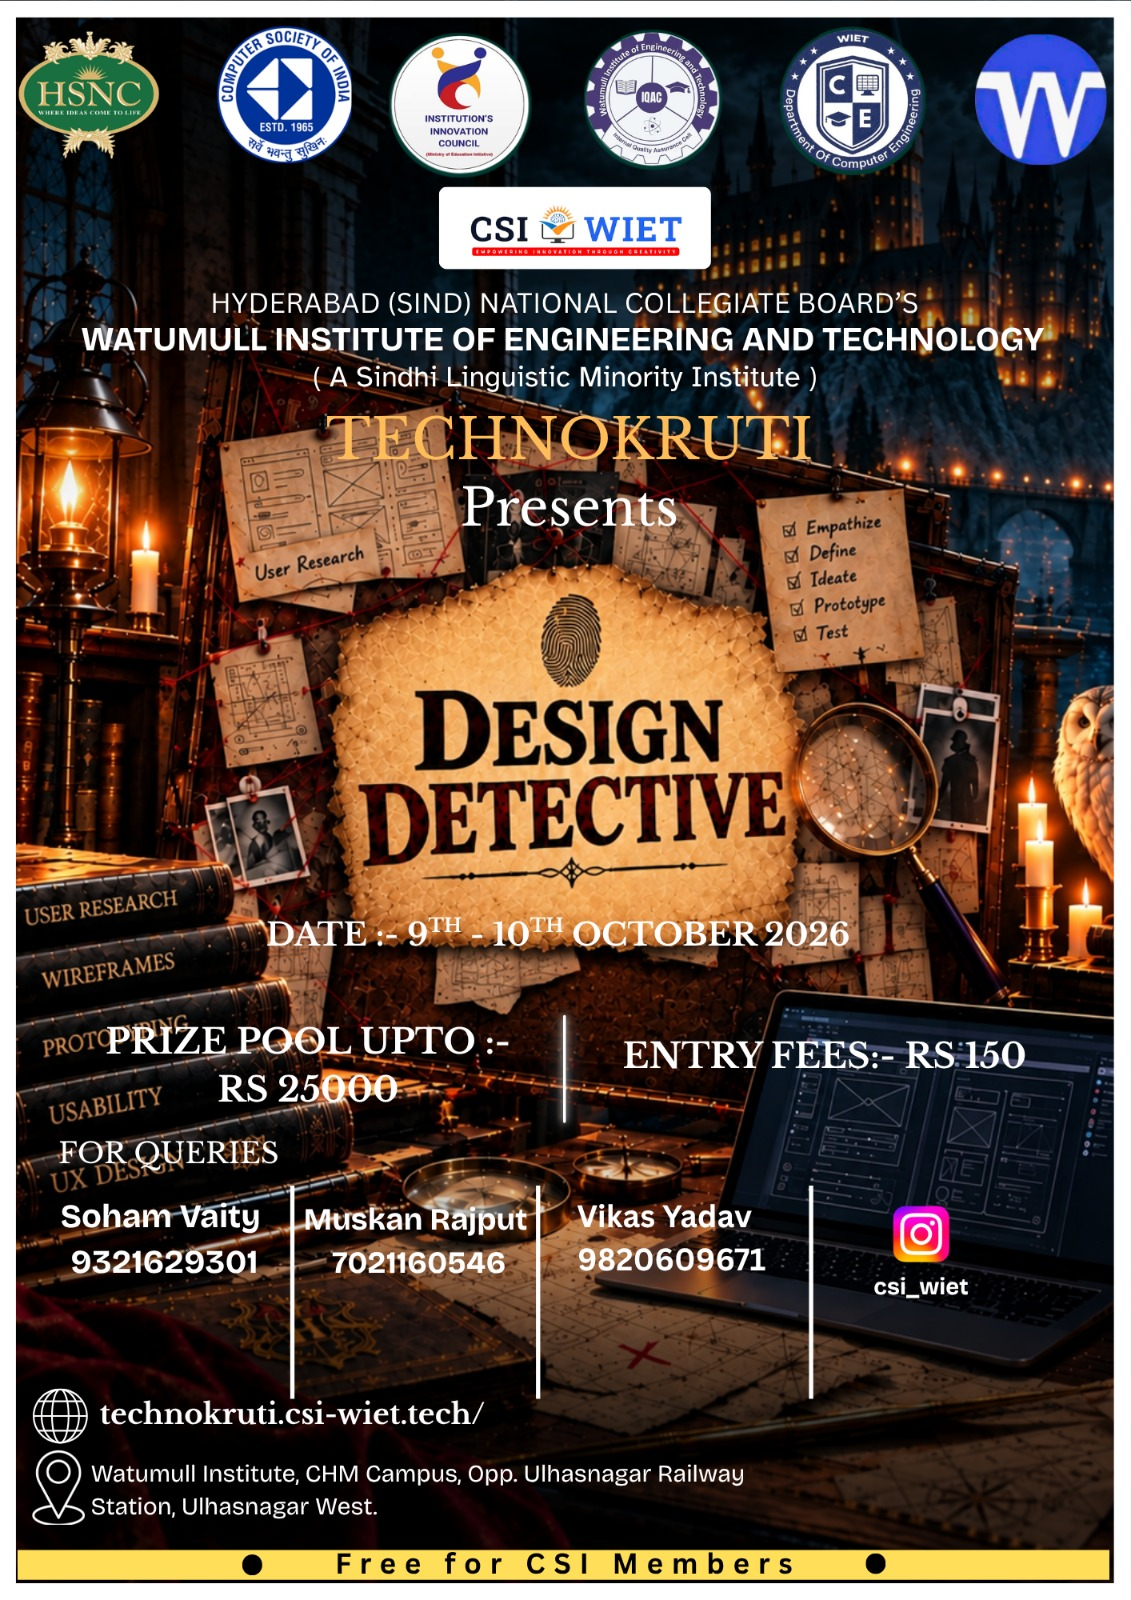
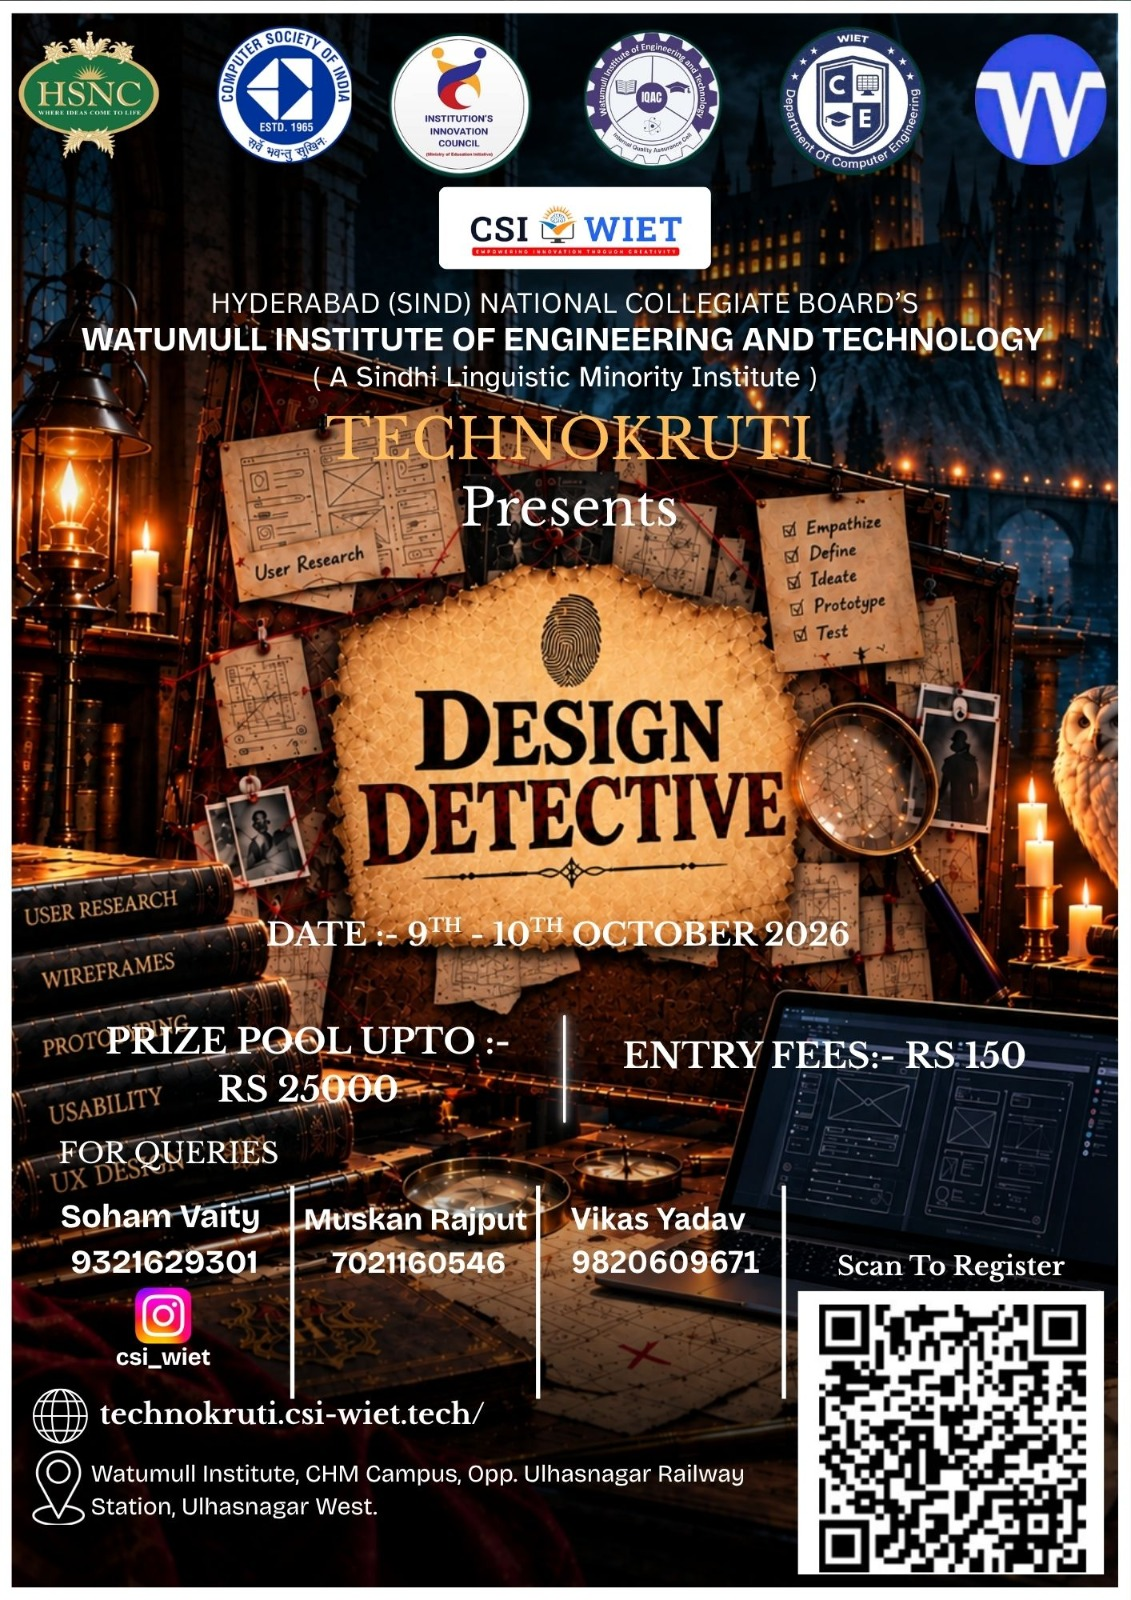
InterCollege posters update

diff --git a/src/data/siteData.js b/src/data/siteData.js
@@ -71,7 +71,8 @@ export const EVENTS = [
     poster: "Ideathon.jpeg",
     date: "9–10 October 2026",
     prizePool: "₹25,000",
-    entryFee: "Free for CSI members",
+    entryFee: "₹250",
+    registrationLink: "https://forms.gle/9ir3rzy9sHoufh7PA",
     coordinators: [
       { name: "Aarti Nipurte", phone: "7448087153" },
       { name: "Sofiya Shaikh", phone: "9820289381" },
@@ -85,6 +86,7 @@ export const EVENTS = [
     date: "9–10 October 2026",
     prizePool: "₹25,000",
     entryFee: "₹200",
+    registrationLink:"https://docs.google.com/forms/d/e/1FAIpQLSdGSnpcwQ4U5ESMGfCekdm33zsKCsnCydmAPr51wbHQ3ByBJg/viewform?usp=publish-editor",
     coordinators: [
       { name: "Shrishti Pathak", phone: "9082897495" },
       { name: "Rounak Singh", phone: "8779031645" },
@@ -99,6 +101,7 @@ export const EVENTS = [
     date: "9–10 October 2026",
     prizePool: "₹25,000",
     entryFee: "₹150",
+    registrationLink: "https://forms.gle/CtmAsepVZbicmCsg7",
     coordinators: [
       { name: "Soham Vaity", phone: "9321629301" },
       { name: "Nikhil More", phone: "9594452632" },
